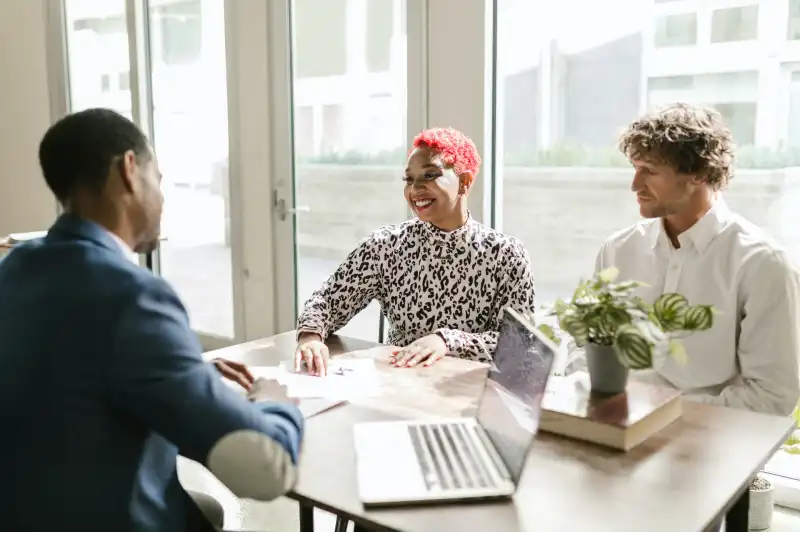
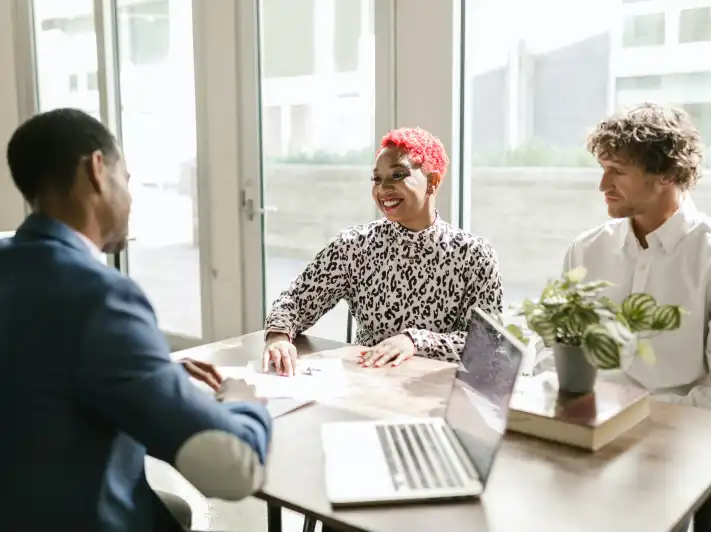
finish responsive overlay img

diff --git a/chamber/styles/medium.css b/chamber/styles/medium.css
@@ -1,0 +1,79 @@
+@media only screen and (min-width: 40em) {
+  body {
+    display: grid;
+    /*min-height: 120vh;*/
+    grid-template: auto 1fr auto / auto 1fr auto;
+  }
+
+  header,
+  footer {
+    grid-column: 1 / 4;
+  }
+
+  nav {
+    grid-column: 1 / 4;
+  }
+
+  .navigation {
+    display: flex;
+  }
+
+  .navigation li {
+    display: block;
+    flex: 1 1 100%;
+  }
+
+  .navigation a {
+    text-align: center;
+  }
+
+  #menu {
+    display: none;
+  }
+
+  .left-sidebar {
+    grid-column: 1 / 2;
+  }
+
+  main {}
+
+  .middle {
+    grid-column: 2 / 3;
+  }
+
+  .right-sidebar {
+    grid-column: 3 /4;
+    grid-row: 1;
+  }
+
+  .columns {
+    display: grid;
+    grid-template-columns: auto 1fr auto;
+  }
+
+  .mediumlabel {
+    position: absolute;
+    top: 30vw;
+    left: 45vw;
+    background: radial-gradient(#fff, rgb(244, 249, 251));
+    border: 5px solid #3d3d3d;
+    padding: .5rem;
+    opacity: 0.75;
+    font-size: 2rem;
+  }
+
+  .mediumlabel p {
+    margin: 0;
+    padding: .25rem;
+    font-weight: 600;
+  }
+
+  .smalllabel {
+    display: none;
+  }
+
+  /*
+  .largelabel {
+    display: none;
+  }*/
+}

diff --git a/chamber/styles/large.css b/chamber/styles/large.css
@@ -1,56 +1,6 @@
-@media only screen and (min-width: 40em) {
+@media only screen and (min-width: 60em) {
 
-  body {
-    display: grid;
-    /*min-height: 120vh;*/
-    grid-template: auto 1fr auto / auto 1fr auto;
-  }
 
-  header,
-  footer {
-    grid-column: 1 / 4;
-  }
-
-  nav {
-    grid-column: 1 / 4;
-  }
-
-  .navigation {
-    display: flex;
-  }
-
-  .navigation li {
-    display: block;
-    flex: 1 1 100%;
-  }
-
-  .navigation a {
-    text-align: center;
-  }
-
-  #menu {
-    display: none;
-  }
-
-  .left-sidebar {
-    grid-column: 1 / 2;
-  }
-
-  main {}
-
-  .middle {
-    grid-column: 2 / 3;
-  }
-
-  .right-sidebar {
-    grid-column: 3 /4;
-    grid-row: 1;
-  }
-
-  .columns {
-    display: grid;
-    grid-template-columns: auto 1fr auto;
-  }
 
 
   .largelabel {
@@ -70,5 +20,7 @@
     font-weight: 600;
   }
 
-  */
+  .mediumlabel {
+    display: none;
+  }
 }

diff --git a/chamber/index.html b/chamber/index.html
@@ -54,8 +54,8 @@
   <main>
     <div class="responsiveimg">
       <picture>
-        <source media="(max-width: 600px)" srcset="images/wdd230-small-400x267.webp">
-        <source media="(max-width: 800px)" srcset="images/wdd230-medium-800x533.webp">
+        <source media="(max-width: 600px)" srcset="images/wdd230-small-400x381.webp">
+        <source media="(max-width: 960px)" srcset="images/wdd230-medium-800x760.webp">
         <img src="images/wdd230-large-1200x800.webp" alt="office people at table" width="1200" height="800">
       </picture>
       <div class="smalllabel">

diff --git a/chamber/styles/base.css b/chamber/styles/base.css
@@ -116,3 +116,20 @@ section {
   width: 100%;
   height: auto;
 }
+
+.smalllabel {
+  position: absolute;
+  top: 30vw;
+  left: 45vw;
+  background: radial-gradient(#fff, rgb(244, 249, 251));
+  border: 5px solid #3d3d3d;
+  padding: .5rem;
+  opacity: 0.75;
+  font-size: 2rem;
+}
+
+.smalllabel p {
+  margin: 0;
+  padding: .25rem;
+  font-weight: 600;
+}
